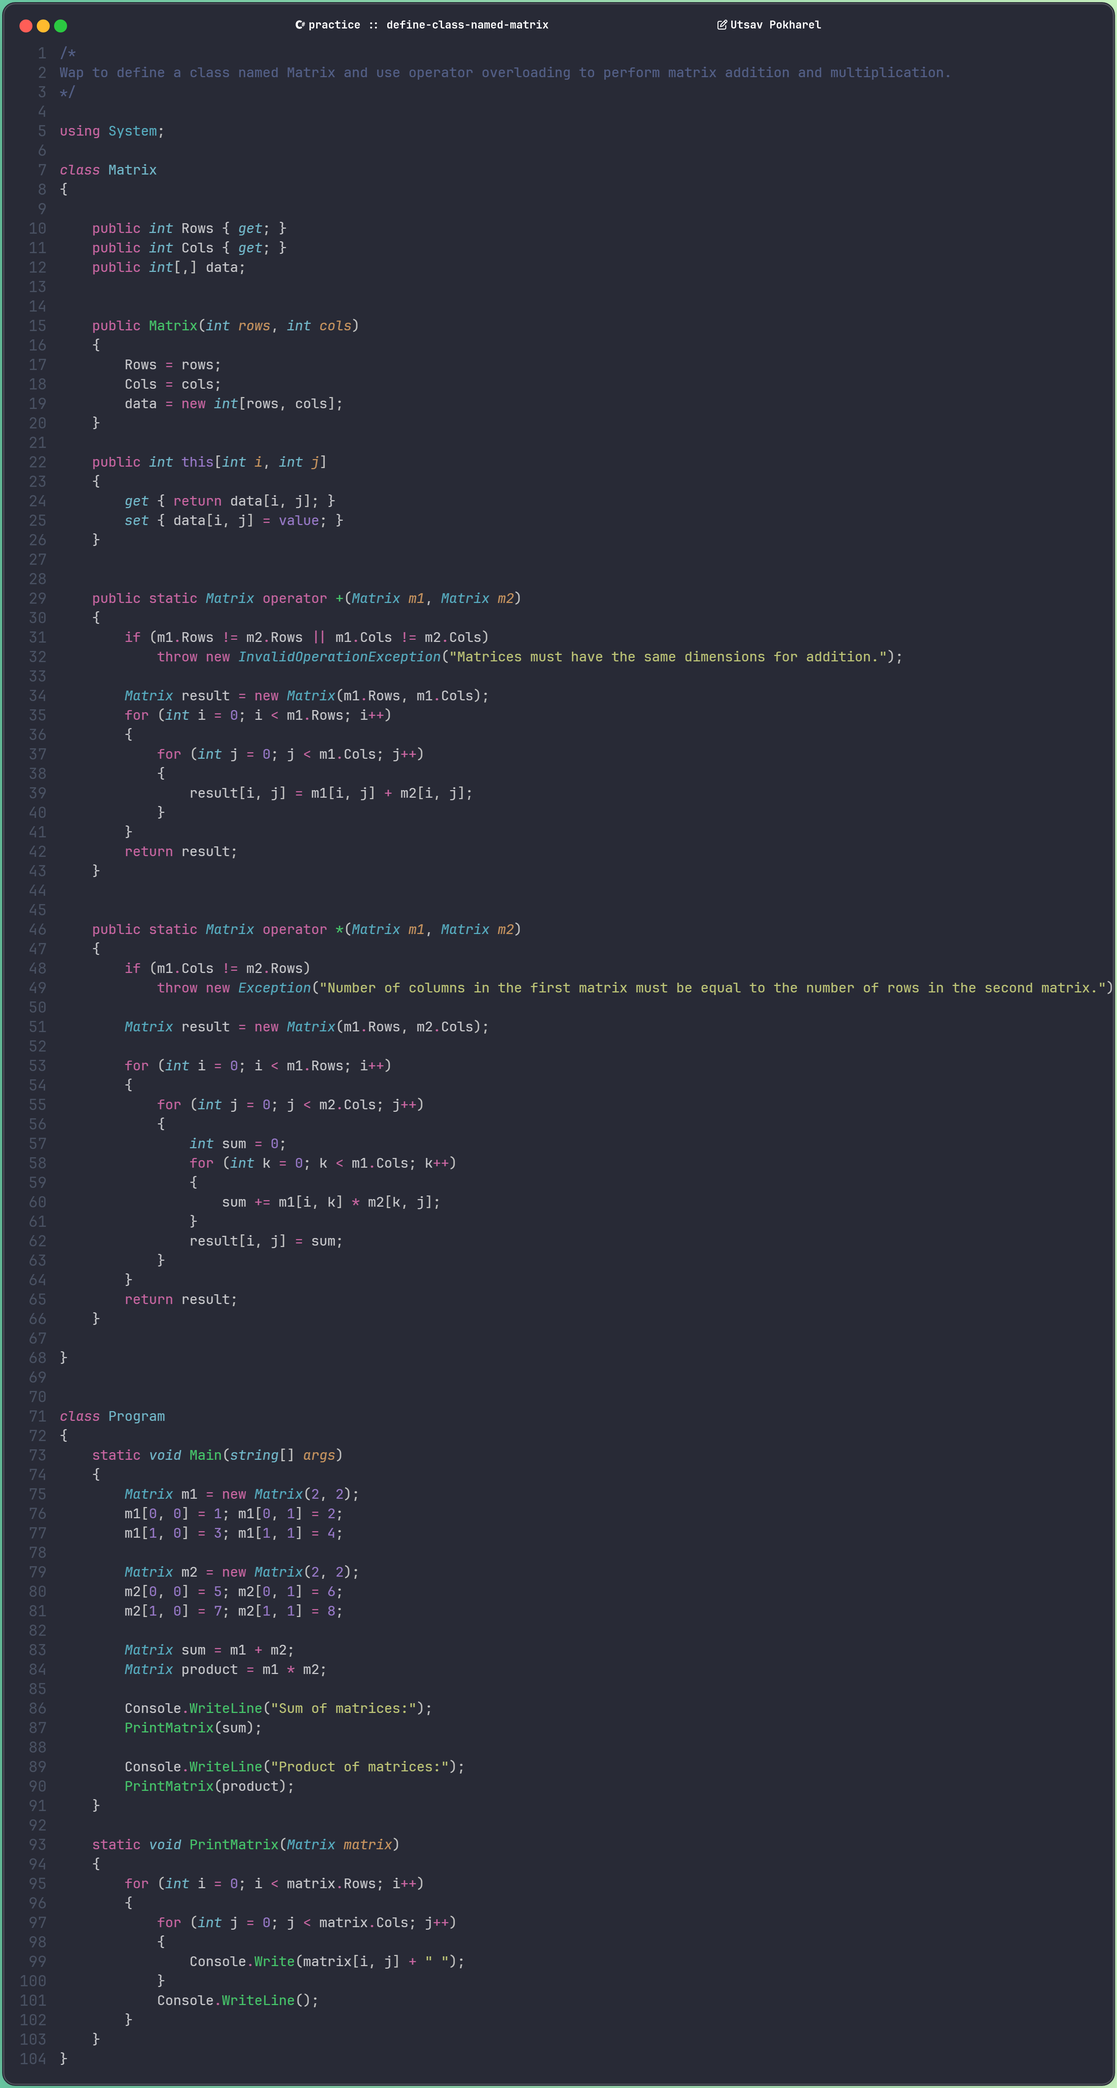
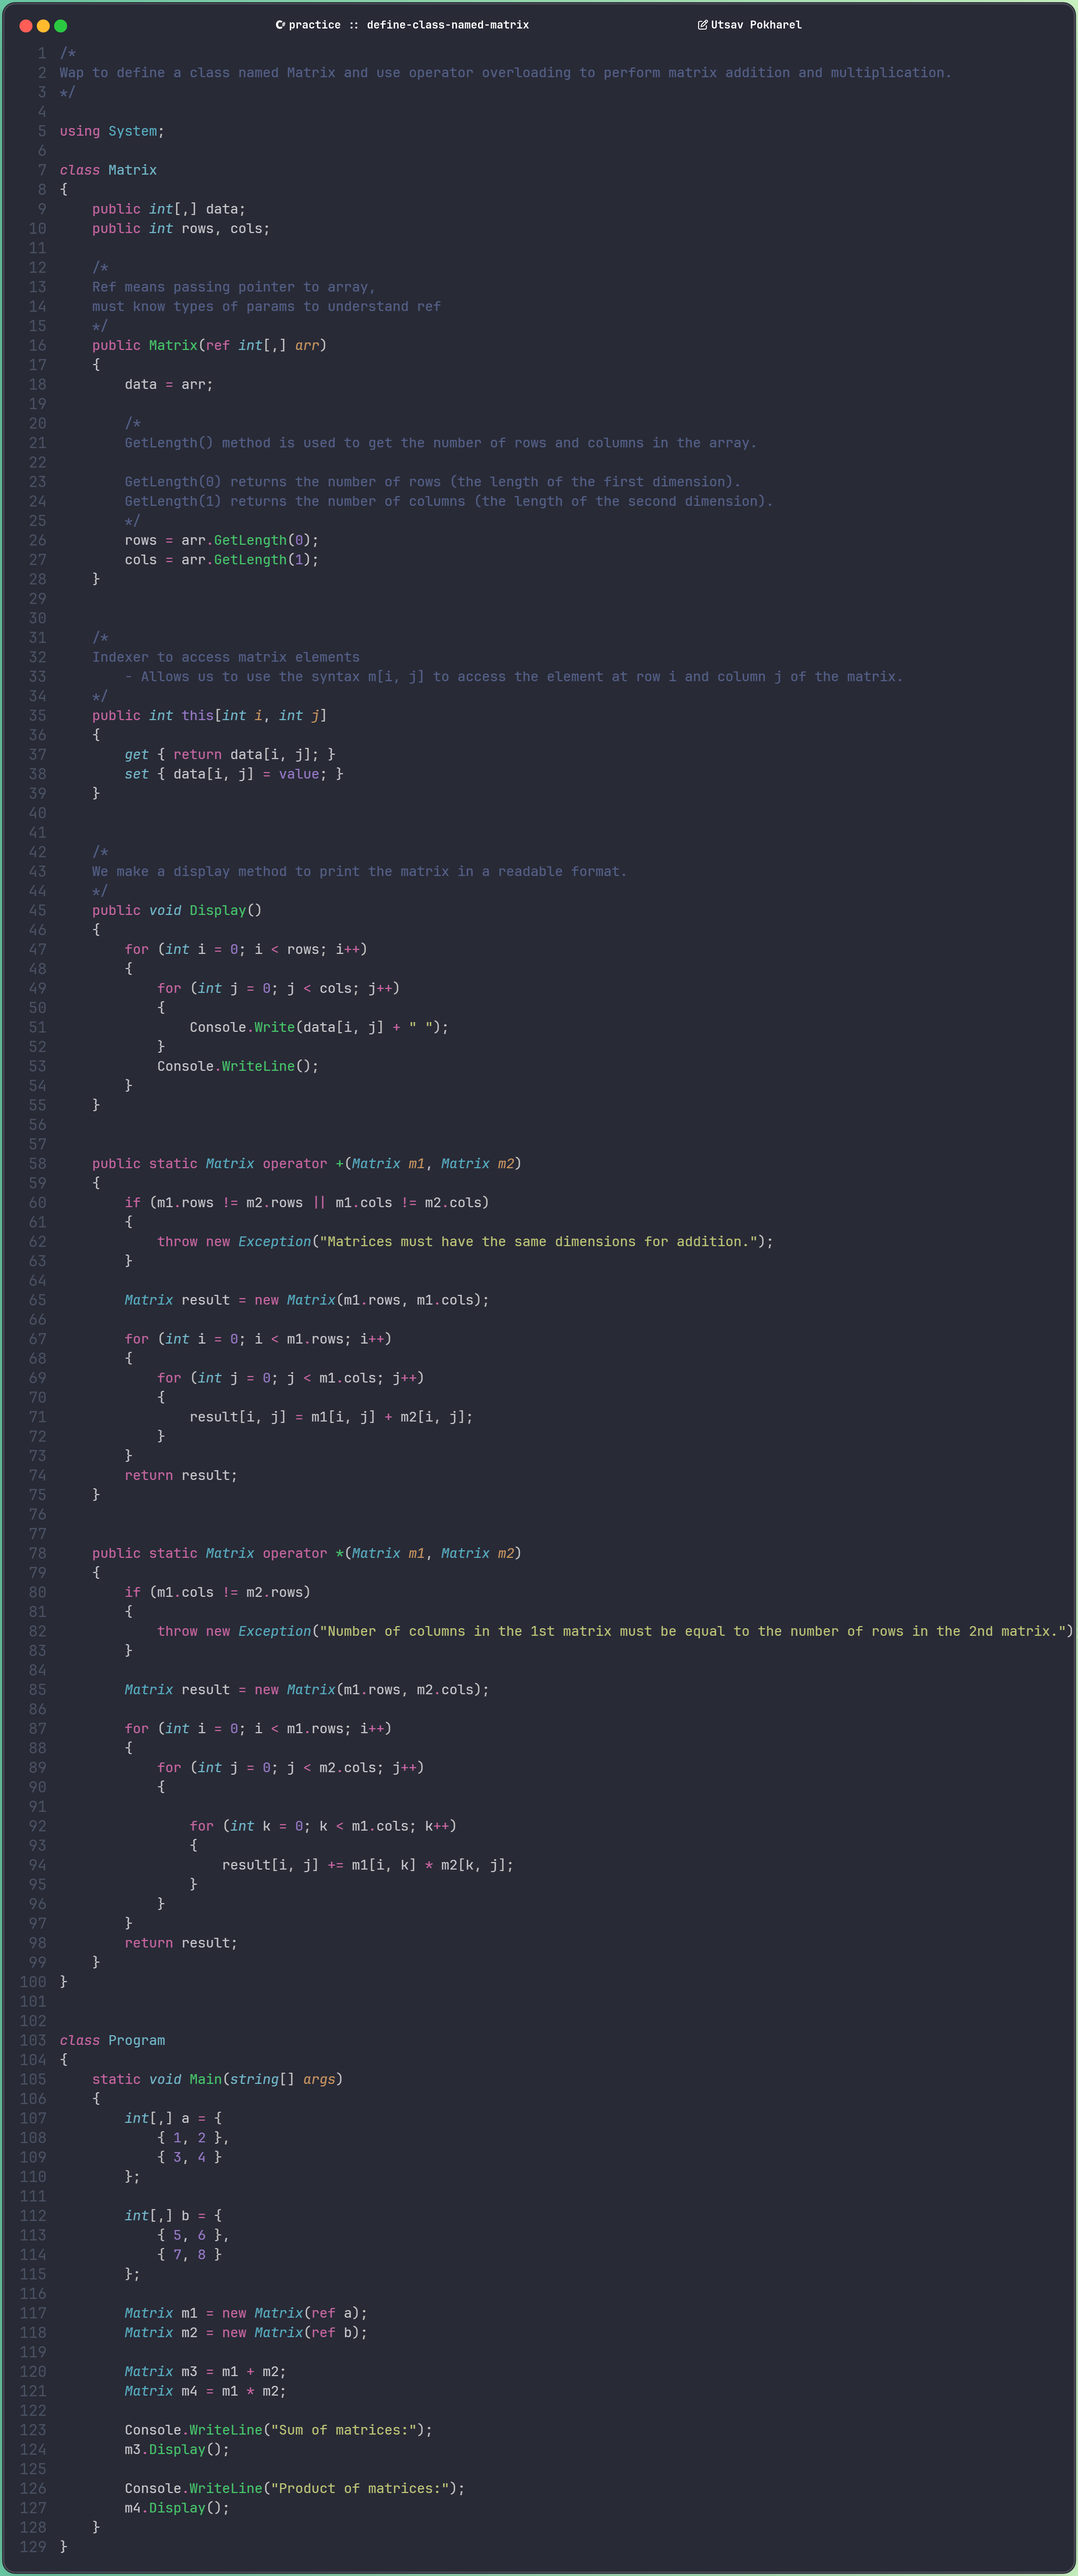
Addeed indexer qsn and made matrix simpler

diff --git a/practice/define-class-named-matrix.cs b/practice/define-class-named-matrix.cs
@@ -6,19 +6,32 @@ using System;
 
 class Matrix
 {
-
-    public int Rows { get; }
-    public int Cols { get; }
     public int[,] data;
+    public int rows, cols;
 
-
-    public Matrix(int rows, int cols)
+    /*
+    Ref means passing pointer to array,
+    must know types of params to understand ref
+    */
+    public Matrix(ref int[,] arr)
     {
-        Rows = rows;
-        Cols = cols;
-        data = new int[rows, cols];
+        data = arr;
+
+        /*
+        GetLength() method is used to get the number of rows and columns in the array.
+
+        GetLength(0) returns the number of rows (the length of the first dimension).
+        GetLength(1) returns the number of columns (the length of the second dimension).
+        */
+        rows = arr.GetLength(0);
+        cols = arr.GetLength(1);
     }
 
+
+    /*
+    Indexer to access matrix elements
+        - Allows us to use the syntax m[i, j] to access the element at row i and column j of the matrix.
+    */
     public int this[int i, int j]
     {
         get { return data[i, j]; }
@@ -26,15 +39,34 @@ class Matrix
     }
 
 
+    /*
+    We make a display method to print the matrix in a readable format.
+    */
+    public void Display()
+    {
+        for (int i = 0; i < rows; i++)
+        {
+            for (int j = 0; j < cols; j++)
+            {
+                Console.Write(data[i, j] + " ");
+            }
+            Console.WriteLine();
+        }
+    }
+
+
     public static Matrix operator +(Matrix m1, Matrix m2)
     {
-        if (m1.Rows != m2.Rows || m1.Cols != m2.Cols)
-            throw new InvalidOperationException("Matrices must have the same dimensions for addition.");
-
-        Matrix result = new Matrix(m1.Rows, m1.Cols);
-        for (int i = 0; i < m1.Rows; i++)
+        if (m1.rows != m2.rows || m1.cols != m2.cols)
         {
-            for (int j = 0; j < m1.Cols; j++)
+            throw new Exception("Matrices must have the same dimensions for addition.");
+        }
+
+        Matrix result = new Matrix(m1.rows, m1.cols);
+
+        for (int i = 0; i < m1.rows; i++)
+        {
+            for (int j = 0; j < m1.cols; j++)
             {
                 result[i, j] = m1[i, j] + m2[i, j];
             }
@@ -45,26 +77,26 @@ class Matrix
 
     public static Matrix operator *(Matrix m1, Matrix m2)
     {
-        if (m1.Cols != m2.Rows)
-            throw new Exception("Number of columns in the first matrix must be equal to the number of rows in the second matrix.");
-
-        Matrix result = new Matrix(m1.Rows, m2.Cols);
-
-        for (int i = 0; i < m1.Rows; i++)
+        if (m1.cols != m2.rows)
         {
-            for (int j = 0; j < m2.Cols; j++)
+            throw new Exception("Number of columns in the 1st matrix must be equal to the number of rows in the 2nd matrix.");
+        }
+
+        Matrix result = new Matrix(m1.rows, m2.cols);
+
+        for (int i = 0; i < m1.rows; i++)
+        {
+            for (int j = 0; j < m2.cols; j++)
             {
-                int sum = 0;
-                for (int k = 0; k < m1.Cols; k++)
+
+                for (int k = 0; k < m1.cols; k++)
                 {
-                    sum += m1[i, k] * m2[k, j];
+                    result[i, j] += m1[i, k] * m2[k, j];
                 }
-                result[i, j] = sum;
             }
         }
         return result;
     }
-
 }
 
 
@@ -72,33 +104,26 @@ class Program
 {
     static void Main(string[] args)
     {
-        Matrix m1 = new Matrix(2, 2);
-        m1[0, 0] = 1; m1[0, 1] = 2;
-        m1[1, 0] = 3; m1[1, 1] = 4;
+        int[,] a = {
+            { 1, 2 },
+            { 3, 4 }
+        };
 
-        Matrix m2 = new Matrix(2, 2);
-        m2[0, 0] = 5; m2[0, 1] = 6;
-        m2[1, 0] = 7; m2[1, 1] = 8;
+        int[,] b = {
+            { 5, 6 },
+            { 7, 8 }
+        };
 
-        Matrix sum = m1 + m2;
-        Matrix product = m1 * m2;
+        Matrix m1 = new Matrix(ref a);
+        Matrix m2 = new Matrix(ref b);
+
+        Matrix m3 = m1 + m2;
+        Matrix m4 = m1 * m2;
 
         Console.WriteLine("Sum of matrices:");
-        PrintMatrix(sum);
+        m3.Display();
 
         Console.WriteLine("Product of matrices:");
-        PrintMatrix(product);
-    }
-
-    static void PrintMatrix(Matrix matrix)
-    {
-        for (int i = 0; i < matrix.Rows; i++)
-        {
-            for (int j = 0; j < matrix.Cols; j++)
-            {
-                Console.Write(matrix[i, j] + " ");
-            }
-            Console.WriteLine();
-        }
+        m4.Display();
     }
 }

diff --git a/namespace.cs b/namespace.cs
@@ -14,13 +14,11 @@ Features of namespaces in C#:
 
 
 THE `using` DIRECTIVE:
-The `using` directive is used to import a namespace into a C# file
-this allows you to use the types defined in that namespace without having to specify the fully qualified name of the type.
+    - The `using` directive is used to import a namespace into a C# file
+    - this allows you to use the types defined in that namespace without having to specify the fully qualified name of the type.
+
 For example, if you have a class named `Animal` in a namespace called `ns1`, 
 you can use the `using` directive to import the `ns1` namespace and then use the `Animal` class directly without having to write `ns1.Animal` every time.
-
-
-
 */
 
 
@@ -40,9 +38,9 @@ namespace ns2
 {
     class Animal
     {
-        public void sound()
+        public void eat()
         {
-            Console.WriteLine("DOG BARKS");
+            Console.WriteLine("DOG EATS FOOD");
         }
     }
 
@@ -69,13 +67,13 @@ class Program
         animal1.sound(); // Output: ANIMAL MAKES SOUND
 
         ns2.Animal animal2 = new ns2.Animal();
-        animal2.sound(); // Output: DOG BARKS
+        animal2.eat(); // Output: DOG EATS FOOD
 
         // Using 'using' directive to import the namespace
         // the using must be at the top of the file, above the namespace declaration
 
         Animal animal3 = new Animal(); // This will cause a conflict because both namespaces have a class named Animal
-        animal3.sound(); // This will cause a compile-time error because the compiler does not know which Animal class to use
+        animal3.eat(); // This will cause a compile-time error because the compiler does not know which Animal class to use
 
 
     }

diff --git a/practice/studentscollection-indexer.cs b/practice/studentscollection-indexer.cs
@@ -1,0 +1,64 @@
+/*
+Question::
+
+WAP to create a class StudentCollection that stores student names. 
+Overload the indexer to get or set student names by index. 
+Demonstrate adding and displaying student names using the indexer in Main().
+
+Solution::
+here we create a class StudentCollection that has an array of strings to store student names.
+We overload the indexer to allow getting and setting student names by index.
+
+*/
+
+using System;
+class StudentCollection
+{
+    private string[] students;
+
+    public StudentCollection(int size)
+    {
+        students = new string[size];
+        count = 0;
+    }
+
+    // Indexer to get or set student names by index
+    public string this[int index]
+    {
+        get
+        {
+            return students[index];
+        }
+        set
+        {
+            students[index] = value;
+        }
+    }
+
+    public void Display()
+    {
+        Console.WriteLine("Student Names:");
+        for (int i = 0; i < students.Length; i++)
+        {
+            Console.WriteLine($"{i}: {students[i]}");
+        }
+    }
+}
+
+class Program
+{
+    static void Main(string[] args)
+    {
+        StudentCollection studentCollection = new StudentCollection(5);
+
+        // Adding student names using the indexer
+        studentCollection[0] = "Alice";
+        studentCollection[1] = "Bob";
+        studentCollection[2] = "Charlie";
+        studentCollection[3] = "David";
+        studentCollection[4] = "Eve";
+
+        // Displaying student names using the indexer
+        studentCollection.Display();
+    }
+}

diff --git a/basics/getter-setter.cs b/basics/getter-setter.cs
@@ -1,0 +1,29 @@
+/*
+In c# properties are a way to provide controlled access to the fields of a class.
+they allow us to define getter and setter methods for a field, 
+which helps to do somee processing before accessing or modifying the field value.
+
+for e.g, 
+nsure age is neveer negative, we can use a property to validate the input before setting the age field.
+*/
+
+class Person
+{
+    private int _age;
+
+    public int age
+    {
+        get { return _age; }
+        set
+        {
+            if (value < 0)
+            {
+                Console.WriteLine("Age cannot be negative.");
+            }
+            else
+            {
+                _age = value;
+            }
+        }
+    }
+}

diff --git a/basics/taking-input.cs b/basics/taking-input.cs
@@ -1,0 +1,17 @@
+/*
+In c# input is taken using Console.ReadLine() method, which reads input as string
+
+Example:
+
+
+*/
+using System;
+class Program
+{
+    static void Main()
+    {
+        Console.Write("Enter your name: ");
+        string name = Console.ReadLine(); // Takes input as string
+        Console.WriteLine("Hello, " + name);
+    }
+}

diff --git a/practice/q-no-1.cs b/practice/q-no-1.cs
@@ -13,9 +13,7 @@ What happens if you try to make them instance methods?
         - C# does not allow operator overloading methods to be non-static
     
 */
-
 using System;
-using System.Security;
 class Box
 {
     public int Length { get; set; }
